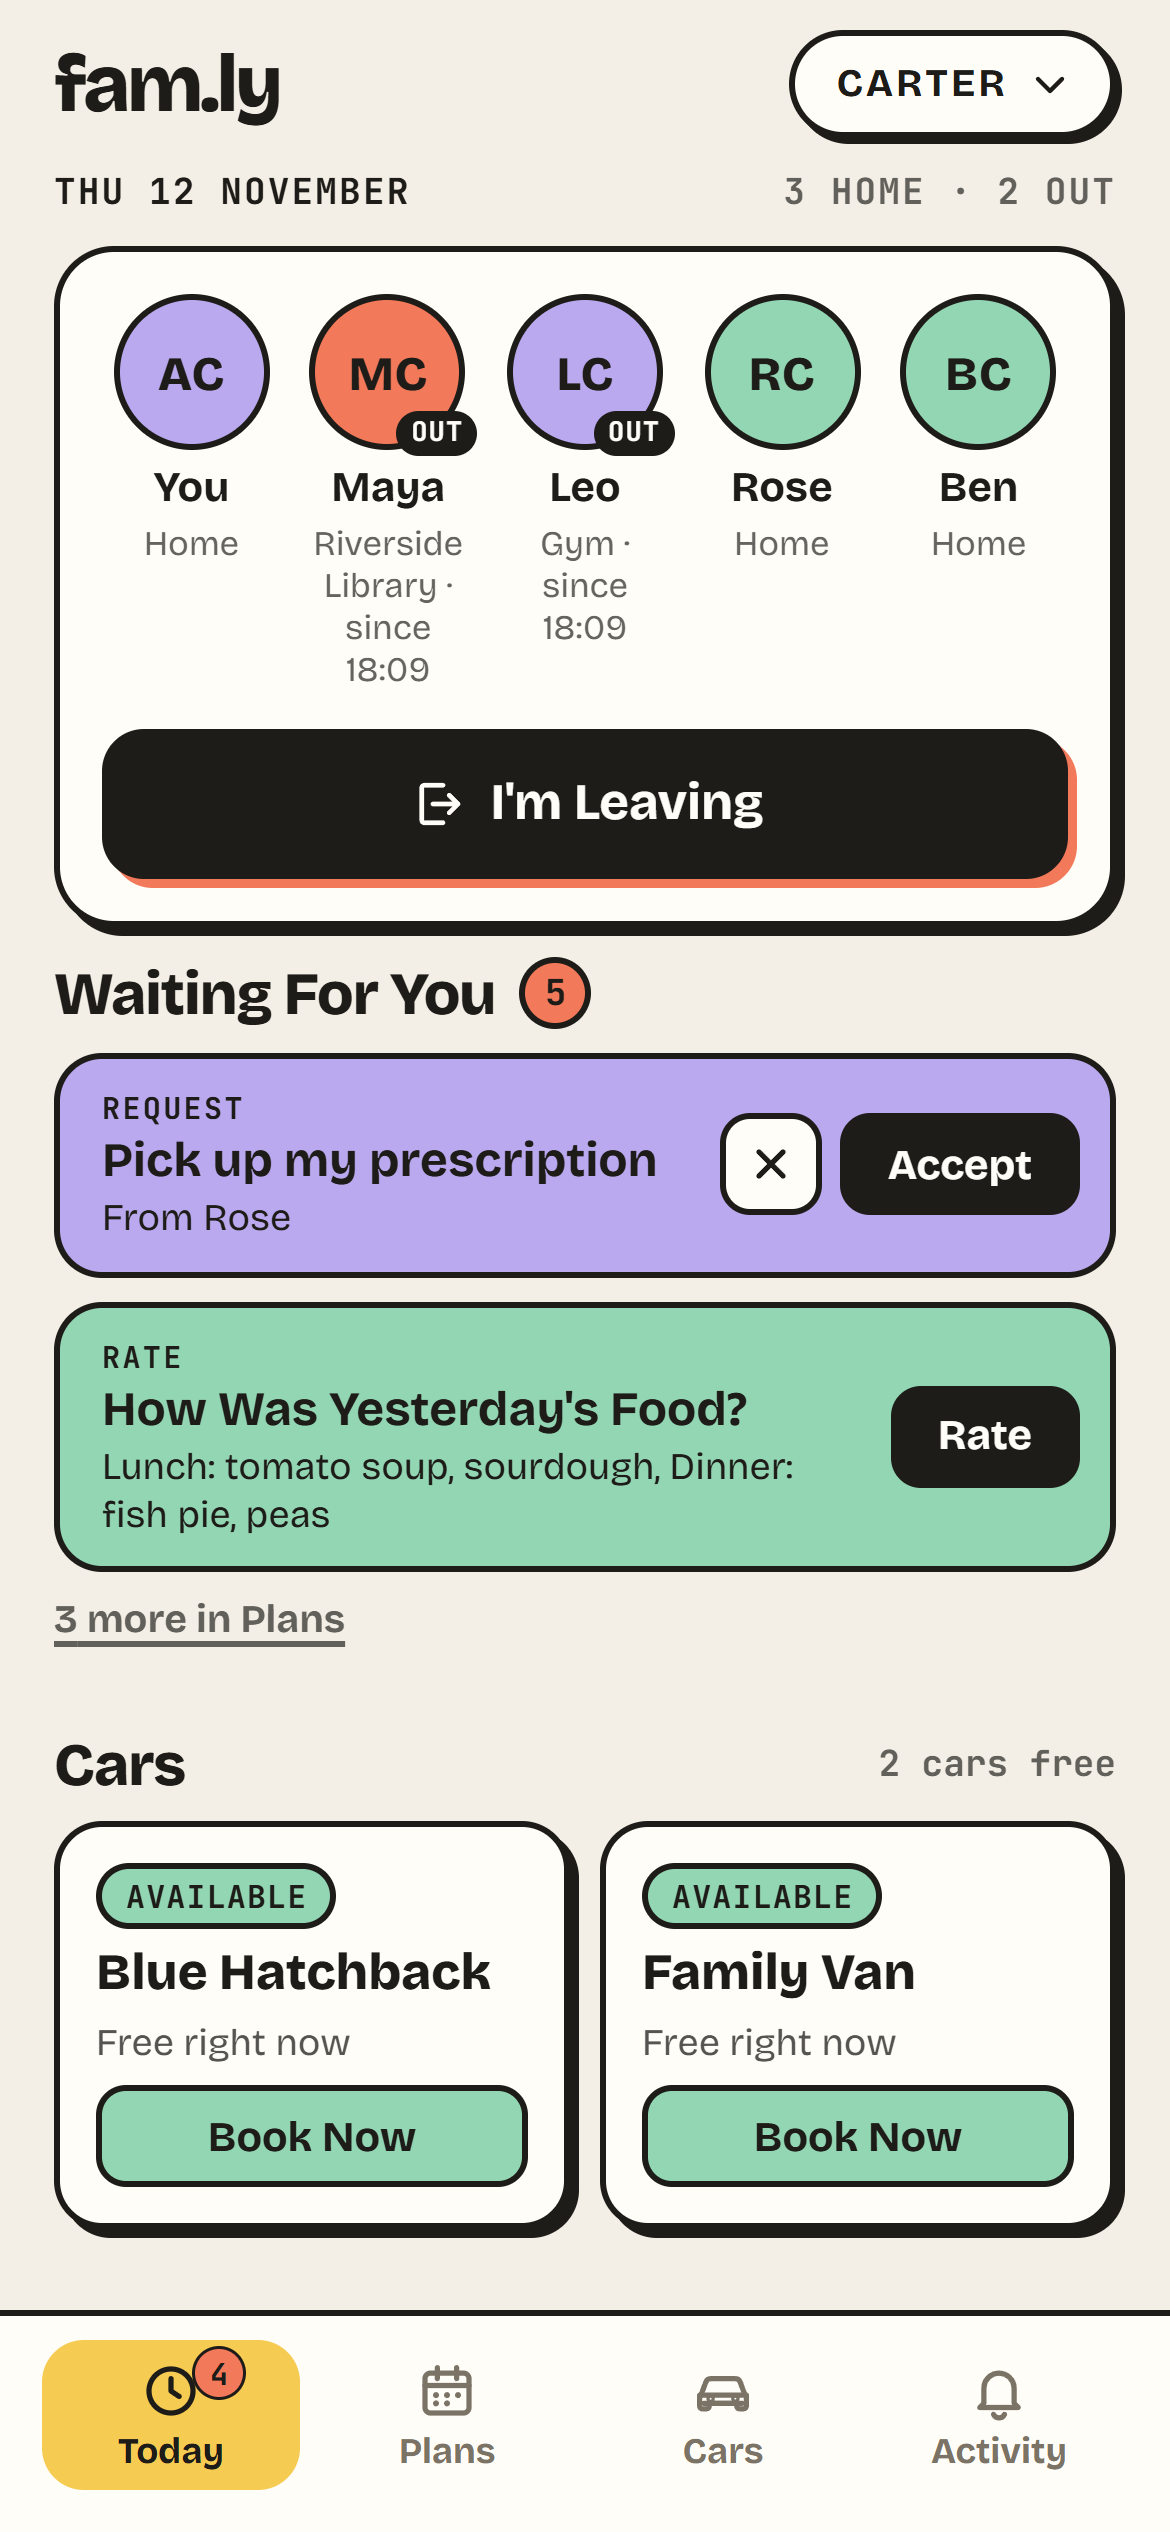
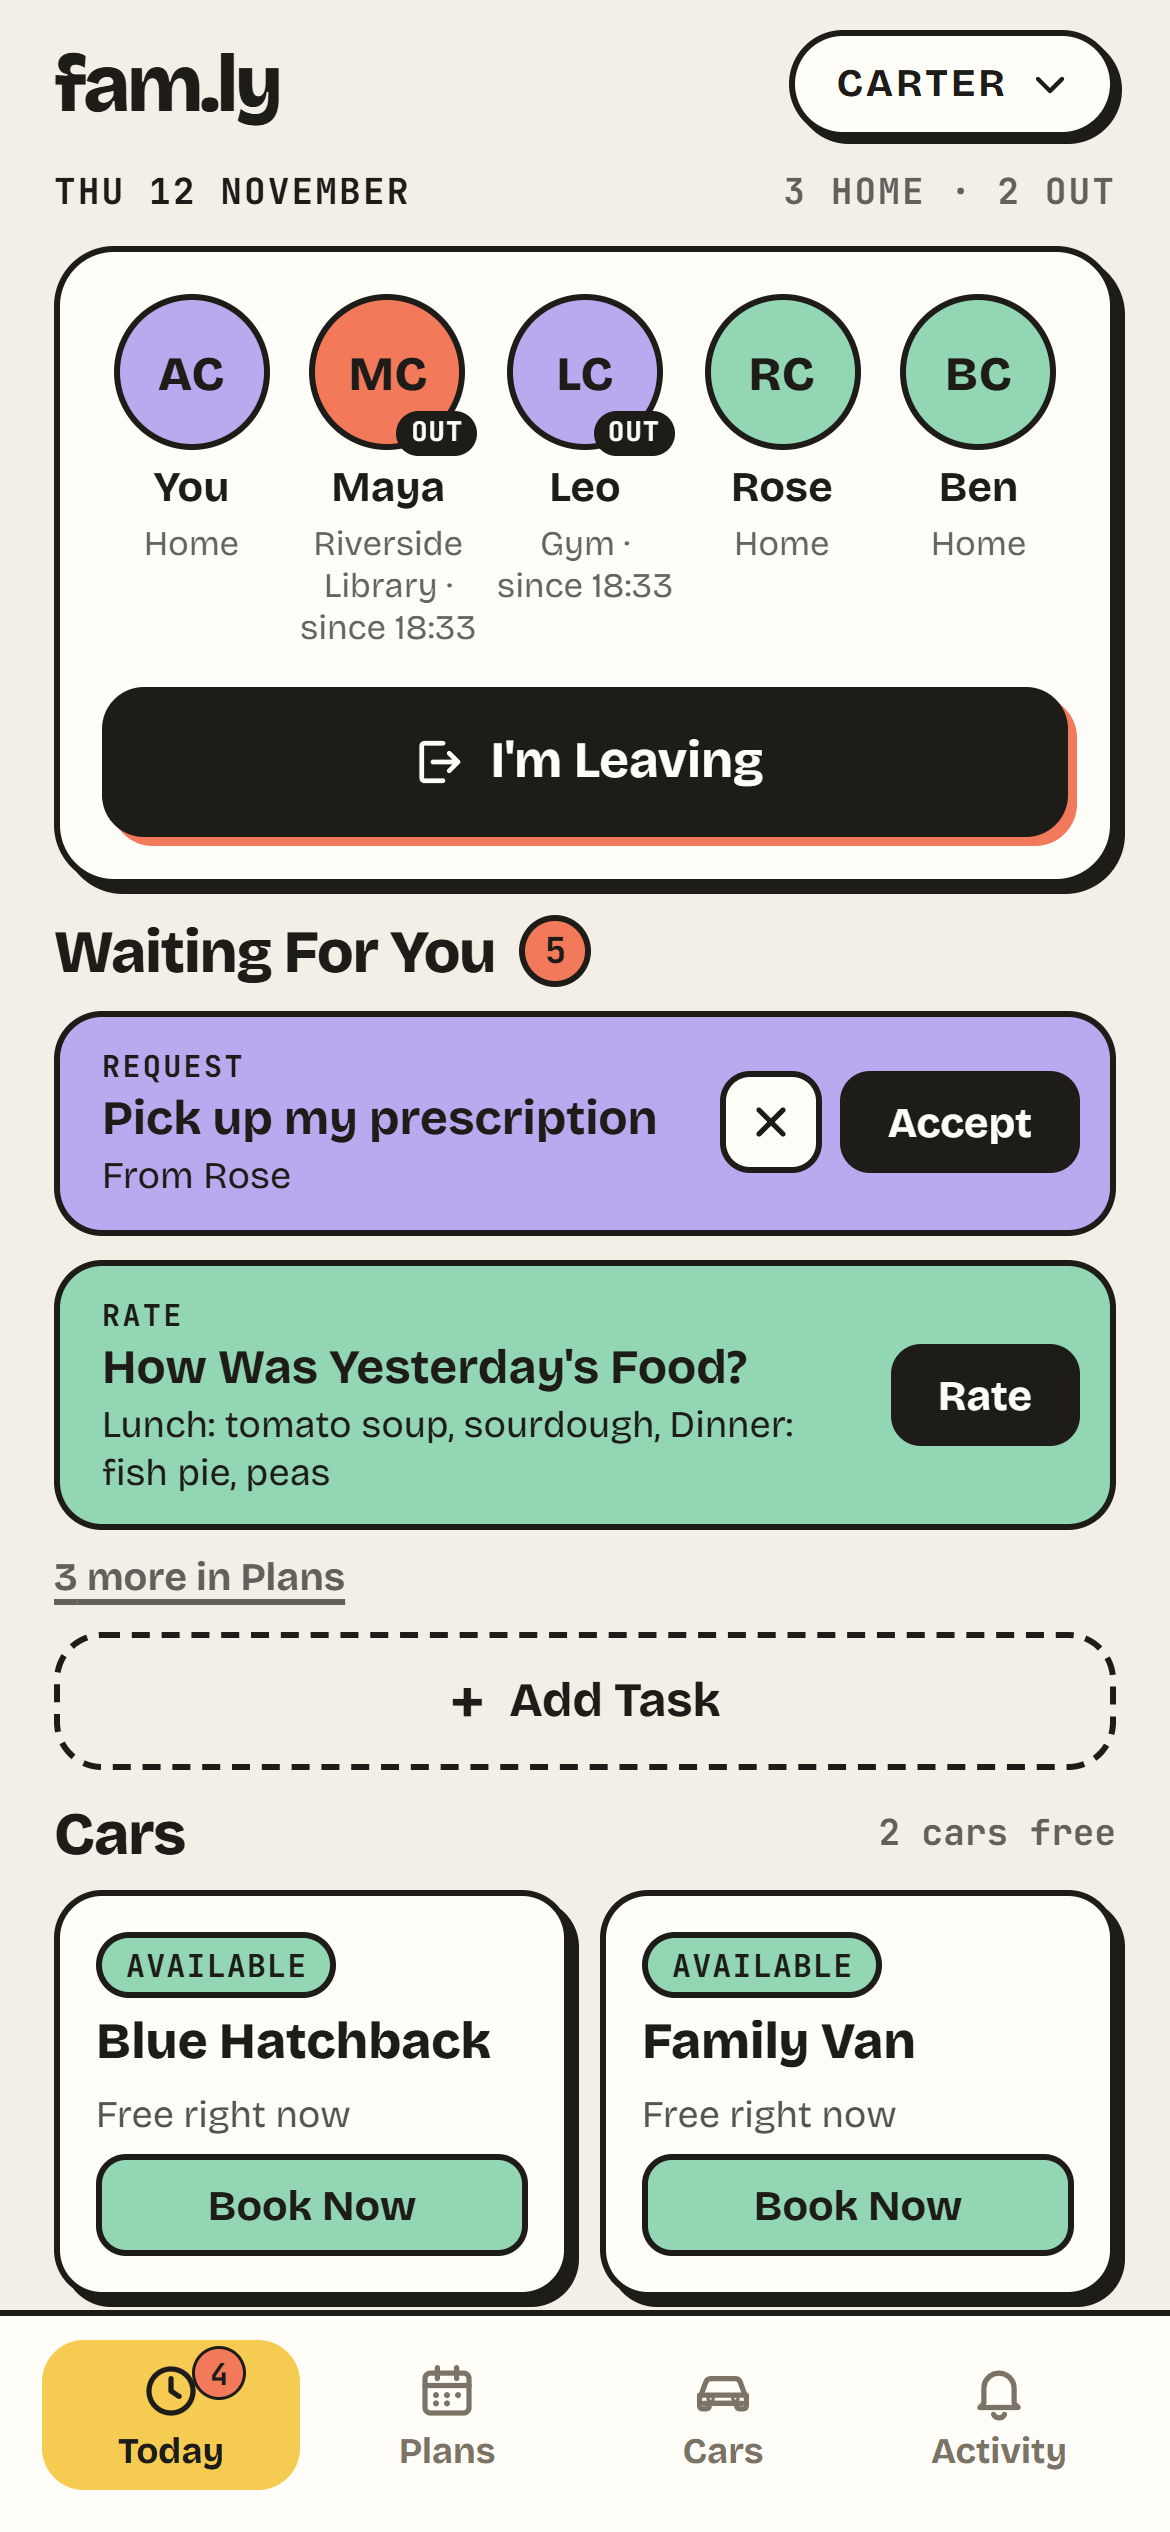
Activity filter chips no longer collapse; Today gets an Add Task tile

Changed region(s): [[0.0308, 0.2184, 0.9846, 0.936], [0.4308, 0.6552, 0.6154, 0.6864]]

diff --git a/apps/web/src/styles.css b/apps/web/src/styles.css
@@ -418,9 +418,15 @@ legend + * { clear: both; }
 .sq-btn svg { width: 16px; height: 16px; stroke-width: 2.6; }
 .wait-primary { height: 34px; min-height: 0; padding: 0 14px; border-radius: 10px; font-size: 14px; }
 .all-clear { border: 2px dashed var(--ink); border-radius: 16px; padding: 16px; font-weight: 600; font-size: 15px; text-align: center; }
-/* Leftover height is split evenly above and below Cars, so the gap after the last Waiting card matches the gap
-   above the tab bar (both = the 10px flex gap/padding + half the free space). */
-.cars-sec { margin-block: auto; }
+/* Cars sits straight under Waiting For You (founder, 2026-11-12). Waiting takes the leftover height so there's
+   no empty band at the bottom: the Add Task tile under the last card stretches into it. */
+.wait-sec { flex: 1 0 auto; }
+.add-task {
+  flex: 1 0 46px; min-height: 46px; border: 2px dashed var(--ink); border-radius: 16px; display: flex; align-items: center;
+  justify-content: center; gap: 8px; font-weight: 700; font-size: 16px; color: var(--ink); text-decoration: none;
+}
+.add-task:active { background: var(--card); }
+.add-task .plus { font: 700 20px var(--mono); line-height: 1; }
 .car-tiles { display: grid; grid-template-columns: 1fr 1fr; gap: 10px; }
 .car-tile { border-radius: 16px; padding: 12px; display: flex; flex-direction: column; gap: 6px; }
 .car-tile .name { font-weight: 800; font-size: 17px; line-height: 1.1; overflow-wrap: anywhere; }
@@ -453,7 +459,7 @@ a.tile-btn { display: grid; place-items: center; border: 2px solid var(--ink); f
 .seg { display: grid; grid-template-columns: 1fr 1fr; border: 2px solid var(--ink); border-radius: 14px; padding: 3px; background: var(--card); }
 .seg button { height: 38px; min-height: 0; border: 0; border-radius: 10px; background: transparent; color: var(--ink); font-size: 15px; }
 .seg button[aria-pressed="true"] { background: var(--ink); color: var(--card); }
-.filters { display: flex; gap: 6px; overflow-x: auto; }
+.filters { display: flex; flex-shrink: 0; gap: 6px; overflow-x: auto; }
 .filters button {
   flex: none; height: 32px; min-height: 0; padding: 0 14px; border-radius: 999px; background: var(--card); color: var(--ink);
   font-weight: 600; font-size: 14px;

diff --git a/apps/web/src/pages/Today.tsx b/apps/web/src/pages/Today.tsx
@@ -273,7 +273,7 @@ function Waiting({ group, names }: { group: Group; names: Map<string, string> })
   const busy = respond.isPending || complete.isPending || accept.isPending || snooze.isPending || confirmHome.isPending;
   const loading = tasks.isPending || menus.isPending || toReview.isPending;
   return (
-    <section className="sec" aria-label="Waiting for you">
+    <section className="sec wait-sec" aria-label="Waiting for you">
       <div className="title-count">
         <h2>Waiting For You</h2>
         {items.length > 0 && <span className="count-badge">{items.length}</span>}
@@ -296,6 +296,7 @@ function Waiting({ group, names }: { group: Group; names: Map<string, string> })
       {items.length > 2 && <Link to="/family?view=todos" className="more-link">{items.length - 2} more in Plans</Link>}
       {!loading && items.length === 0 && <div className="all-clear">All clear. Nothing needs you right now.</div>}
       {error && <p className="error" role="alert">{messageOf(error)}</p>}
+      <Link to="/family/tasks/new" className="add-task"><span className="plus" aria-hidden="true">+</span>Add Task</Link>
     </section>
   );
 }
